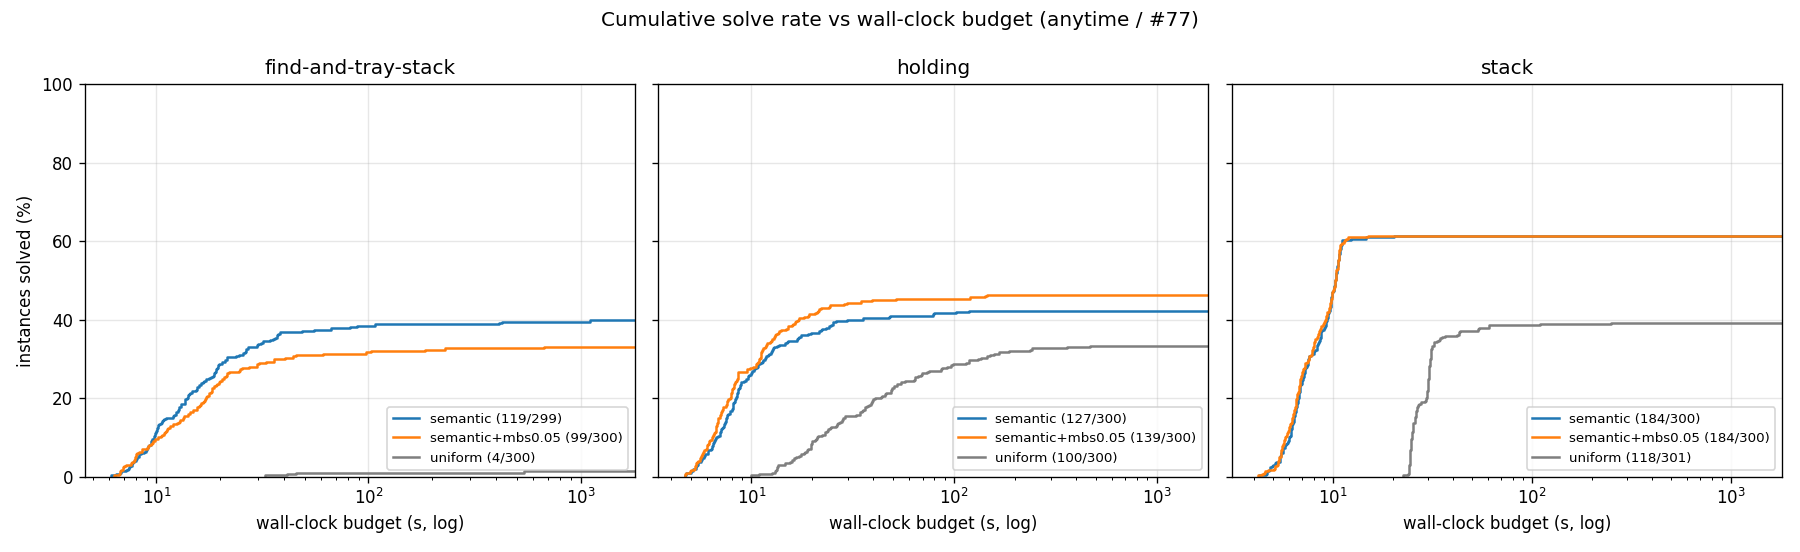
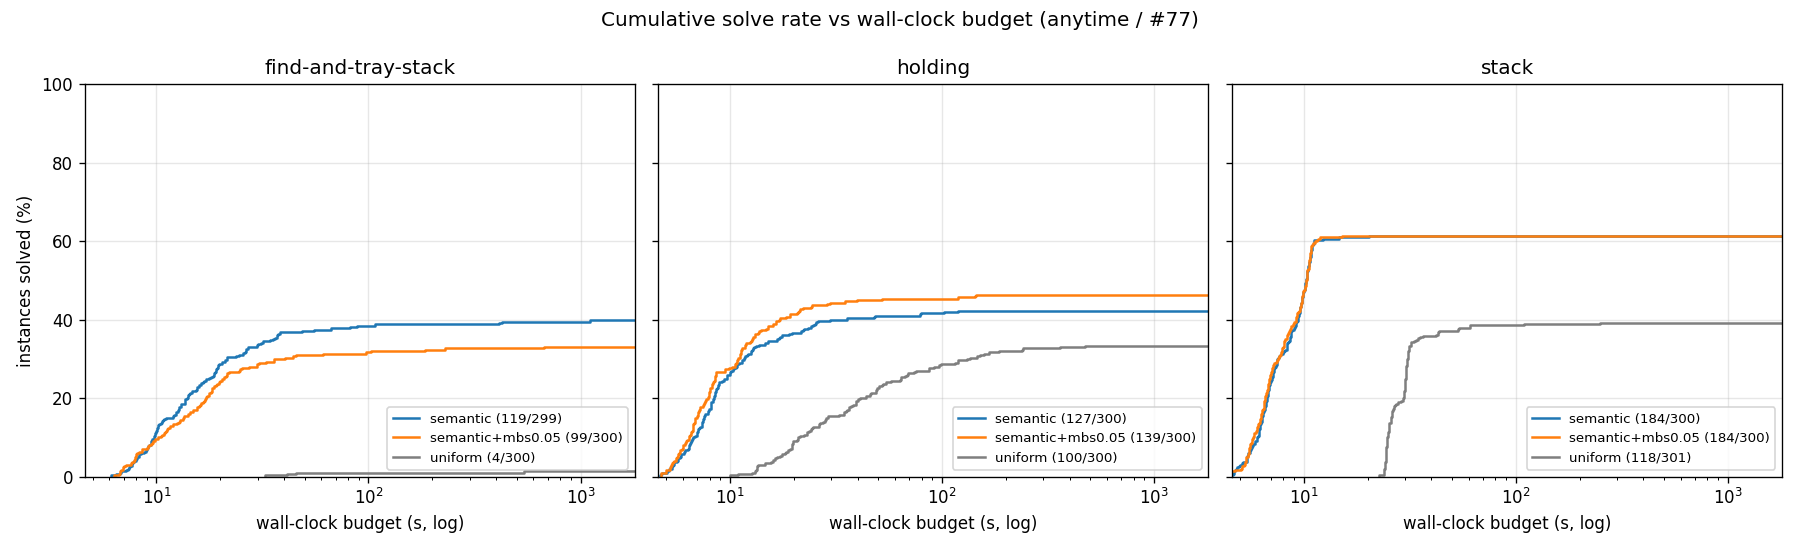
eval_plotter: drop low-interest line plots; shared y/x on multi-panel figs
Drop two per-goal line plots that the eval chapter doesn't use:
- sense_action_count_vs_n_occluders__*.png (3 files)
- plan_count_vs_n_occluders__*.png (3 files)
plan_count_distribution.png (the 3x3 (goal, variant) histogram) and
n_sense_actions in the timing_summary stay untouched; only the
per-goal line plot calls in main() are removed.

Restore shared axes across multi-panel figures so adjacent panels
compare on the same scale:
- boxel_volume_histogram: add sharey=True (log-y from #99 polish
  already compresses the 10^0..10^5 range across panels).
- boxel_evolution_per_replan: add sharex=True, sharey=True (reverts
  the per-panel y experiment from e5e34f2; the size gap between
  uniform's ~1300 free-space line and semantic's ~30 is the point
  of the figure).
- solved_vs_time: add sharex=True alongside the existing sharey so
  the cumulative-solve curves align on both axes.
plot_plan_count_distribution already shares both axes.

diff --git a/eval_plotter.py b/eval_plotter.py
@@ -640,13 +640,14 @@ def plot_boxel_volume_histogram(
         hi = lo + 1.0
     bins = [10 ** (lo + (hi - lo) * i / 30) for i in range(31)]
 
-    # Per-panel y-axis: uniform's ~50k-count free-space spike used to
-    # dominate a shared-y plot and flatten the semantic distribution
-    # visually.  sharex is preserved so the log-volume bins align
-    # across panels.
+    # Shared X and Y across the per-variant panels so the reader
+    # compares OBJECT / SHADOW / FREE_SPACE distributions on the same
+    # log-volume bins and the same log-count scale.  With audit-#99
+    # log-y the uniform free-space spike (~10^5) and the semantic
+    # tails (~10^0) both fit comfortably in one shared range.
     fig, axes = plt.subplots(1, len(variants),
                              figsize=(5 * len(variants), 4.5),
-                             sharex=True)
+                             sharex=True, sharey=True)
     if len(variants) == 1:
         axes = [axes]
     for ax, variant in zip(axes, variants):
@@ -743,15 +744,14 @@ def plot_boxel_evolution_per_replan(
                    "shadow": "SHADOW",
                    "free_space": "FREE_SPACE"}
 
-    # Audit #99 polish — drop sharey: uniform's free-space line at
-    # ~1300 boxels (stack) / ~330 (random-pairs) squashes the
-    # semantic/mbs0.05 panels (max ~30-50) into an unreadable strip
-    # at the bottom.  Per-panel y-axis lets each variant's evolution
-    # be visible at its own scale.
+    # Shared X and Y across the per-variant panels for cross-variant
+    # comparison.  Uniform's free-space line (~1300 stack / ~330
+    # random-pairs) sets the y-range; the semantic / mbs panels read
+    # along the bottom and the size gap is the point of the plot.
     fig, axes = plt.subplots(
         1, len(variants),
         figsize=(5 * len(variants), 4),
-        squeeze=False,
+        sharex=True, sharey=True, squeeze=False,
     )
     axes = axes[0]
     for ax, variant in zip(axes, variants):
@@ -1270,7 +1270,7 @@ def plot_solved_vs_time(grouped: Dict[tuple, tuple],
 
     fig, axes = plt.subplots(1, len(goals),
                               figsize=(5 * len(goals), 4.6),
-                              sharey=True)
+                              sharex=True, sharey=True)
     if len(goals) == 1:
         axes = [axes]
 
@@ -1936,21 +1936,10 @@ def main(argv=None) -> int:
             main_label_suffix=main_label_suffix,
             baseline_label_suffix=baseline_label_suffix,
         )
-        plot_metric(
-            group_metric(g_rows, series=series_key,
-                         metric="plan_count", success_only=True),
-            title=f"Plan count (replans) vs scene size (success-only){title_suffix}",
-            ylabel="mean plan_count",
-            out_path=out_dir / f"plan_count_vs_n_occluders{suffix}.png",
-            baseline_grouped=(group_metric(g_baseline, series=series_key,
-                                           metric="plan_count",
-                                           success_only=True)
-                              if g_baseline else None),
-            series_label=series_label,
-            xlabel=x_label,
-            main_label_suffix=main_label_suffix,
-            baseline_label_suffix=baseline_label_suffix,
-        )
+        # plan_count_vs_n_occluders dropped 2026-05-20 per user
+        # direction (low-interest metric; the per-(goal, variant)
+        # histogram in plan_count_distribution.png covers replan
+        # distribution at a finer grain).
         # Audit #73 TIER A plot 1: boxel-count breakdown (OBJECT /
         # SHADOW / FREE_SPACE stacked, semantic-vs-uniform side-by-
         # side).  Compactness pillar's headline figure.  No-op on
@@ -1989,29 +1978,8 @@ def main(argv=None) -> int:
             main_label_suffix=main_label_suffix,
             baseline_label_suffix=baseline_label_suffix,
         )
-        # Audit #73 TIER B plot 4: sense-action count vs n_occluders.
-        # Counts every sense executed (any outcome) across all
-        # replans, so include failed runs — they may still have done
-        # many senses before exiting (the audit body explicitly notes
-        # uniform vs semantic should show ~equal counts if the shadow
-        # set is identical; a divergence is itself a finding).  No-op
-        # on pre-#73-step-3(c) sweeps (n_sense_actions column absent).
-        plot_metric(
-            group_metric(g_rows, series=series_key,
-                         metric="n_sense_actions",
-                         success_only=False),
-            title=f"Sense-action count vs scene size{title_suffix}",
-            ylabel="mean n_sense_actions",
-            out_path=out_dir / f"sense_action_count_vs_n_occluders{suffix}.png",
-            baseline_grouped=(group_metric(g_baseline, series=series_key,
-                                           metric="n_sense_actions",
-                                           success_only=False)
-                              if g_baseline else None),
-            series_label=series_label,
-            xlabel=x_label,
-            main_label_suffix=main_label_suffix,
-            baseline_label_suffix=baseline_label_suffix,
-        )
+        # sense_action_count_vs_n_occluders dropped 2026-05-20 per
+        # user direction (low-interest metric for the eval chapter).
         # Audit #73 TIER A plot 3: boxel-volume histogram (semantic
         # vs uniform).  Heterogeneity proof — semantic shows a wide
         # spread, uniform a narrow spike near cell_size³.  Reads
